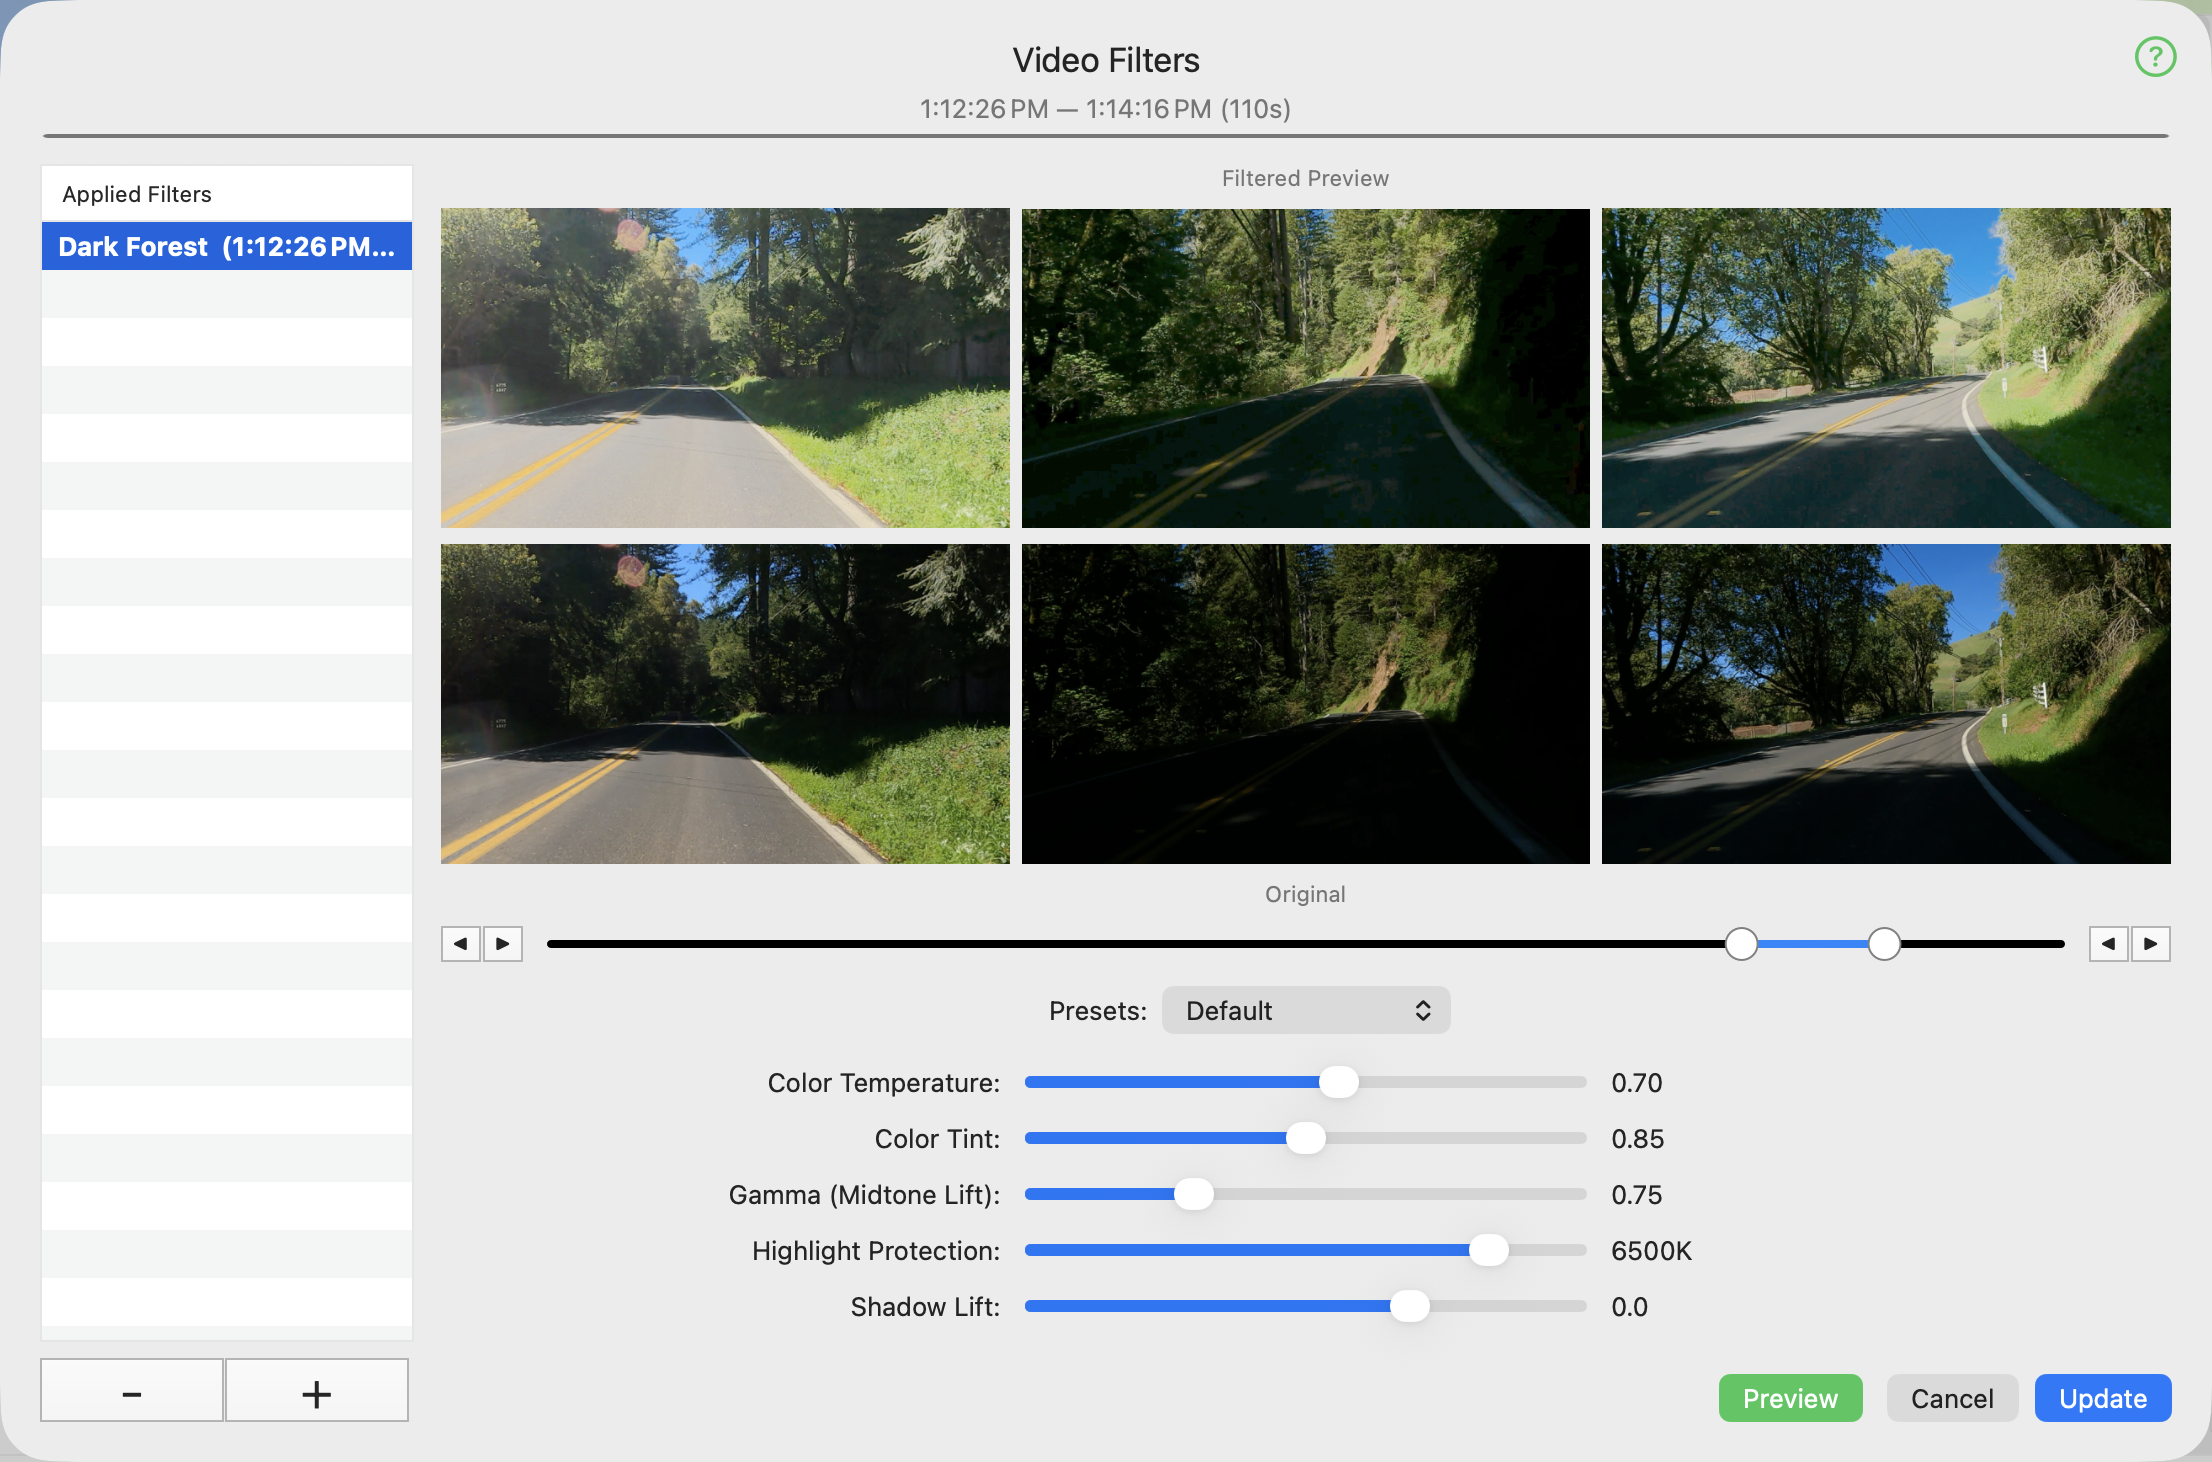
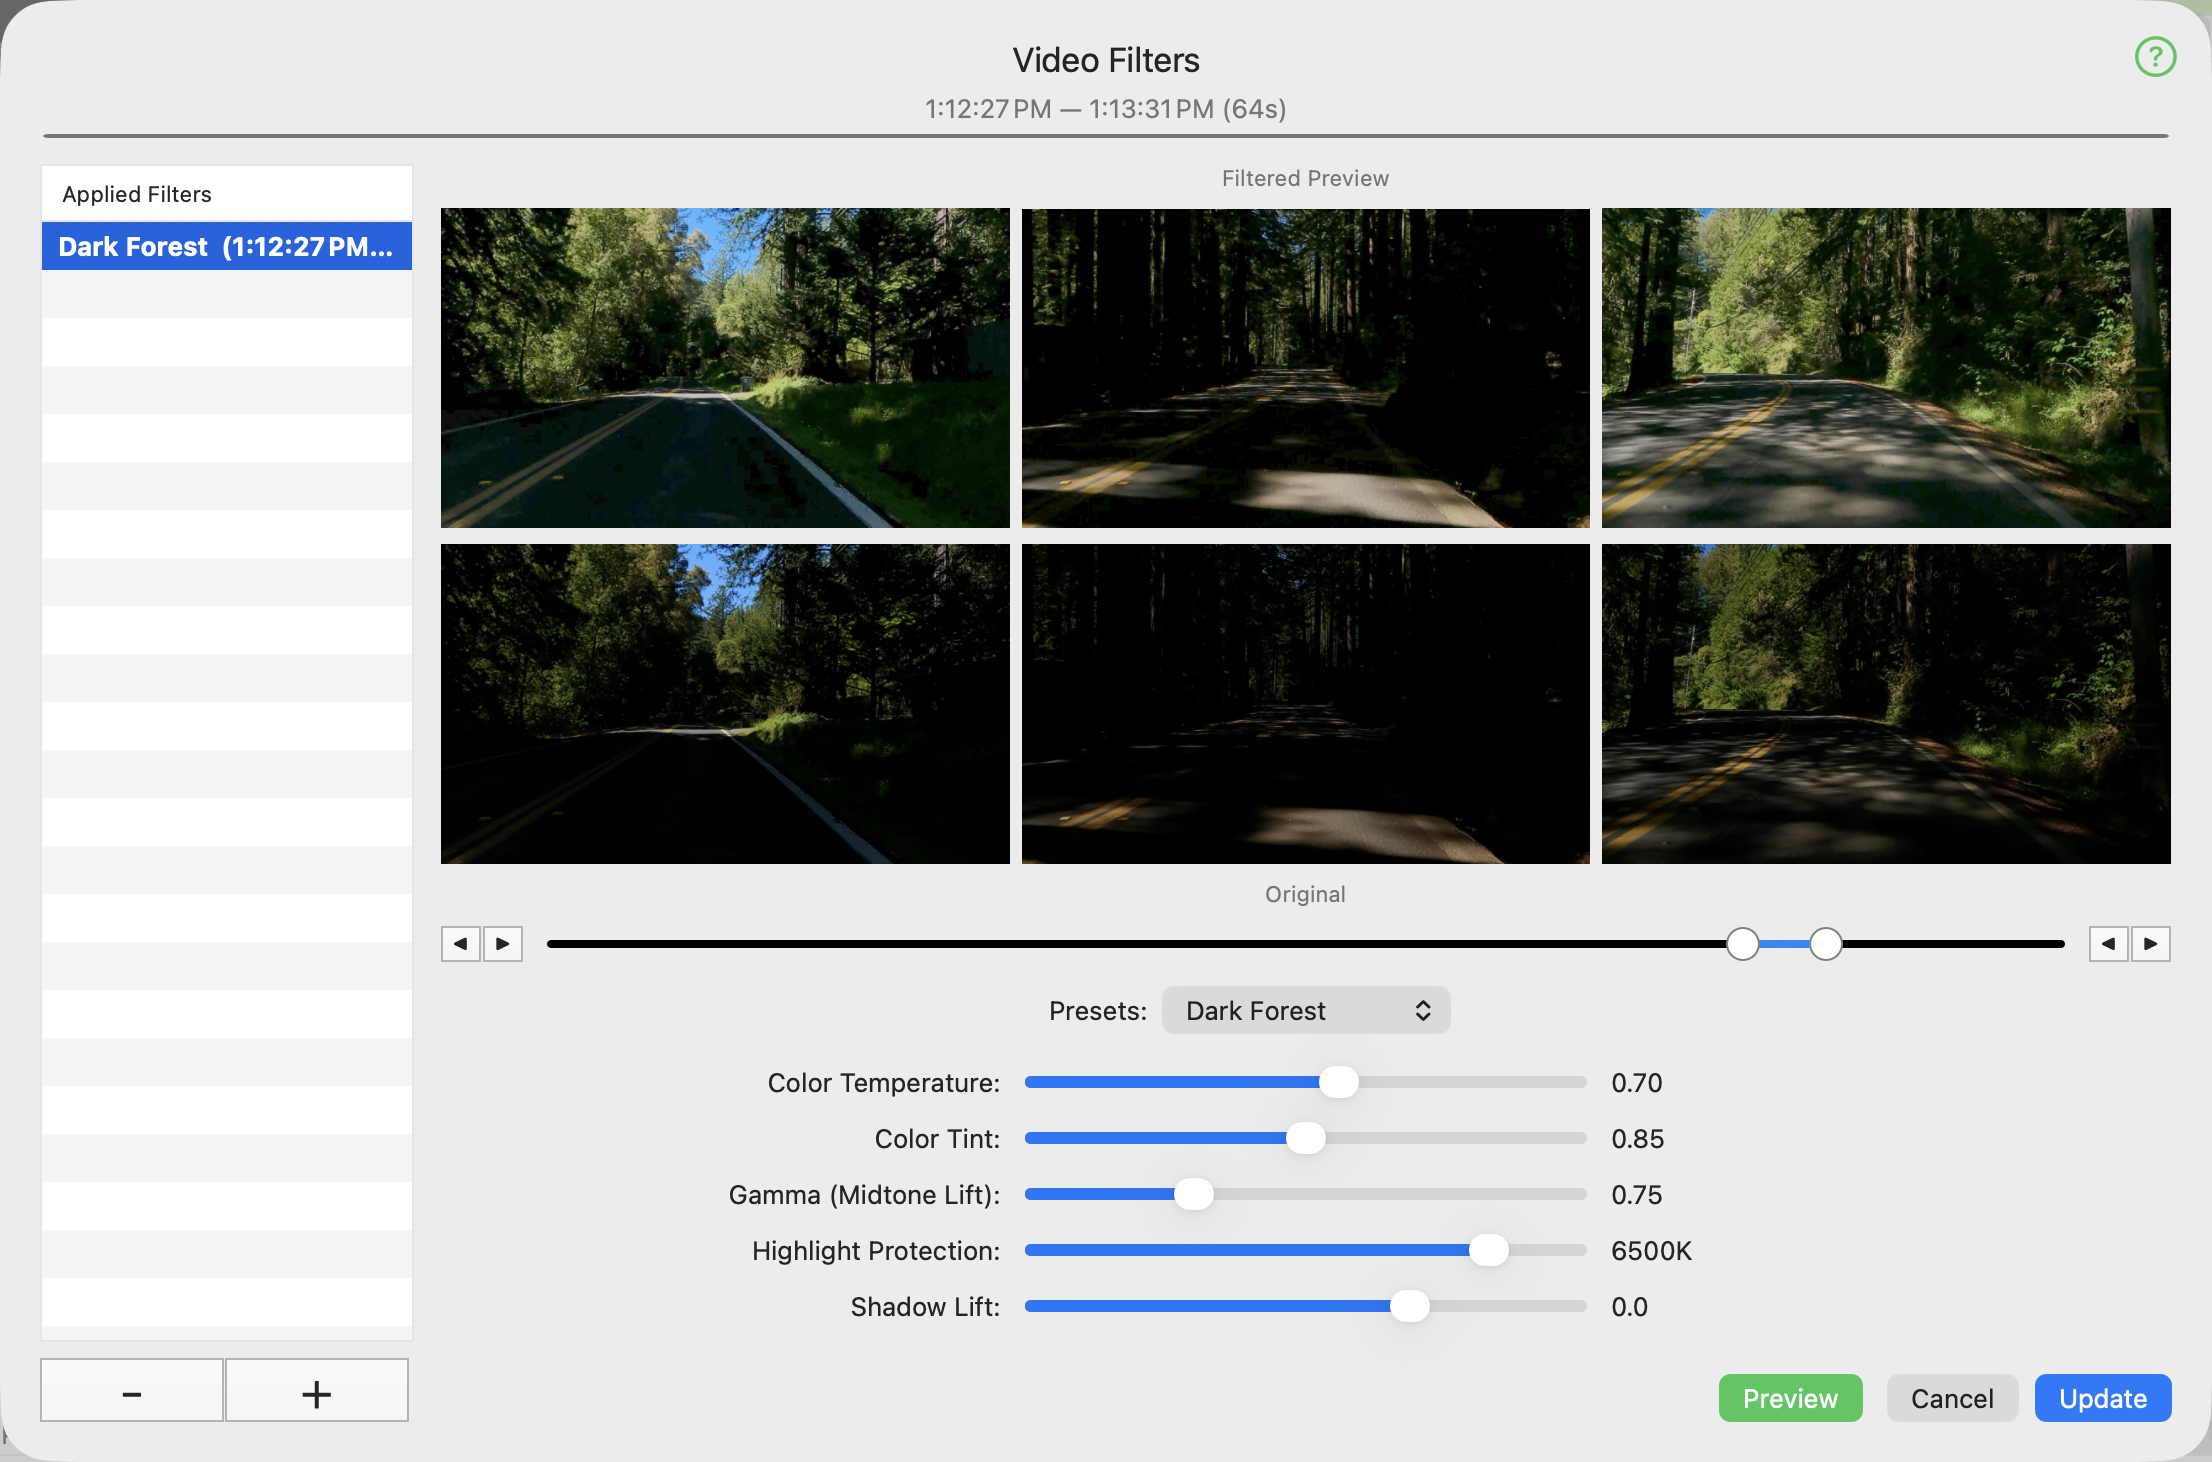
More GPX-V updates

diff --git a/GPX-V/main/index.html b/GPX-V/main/index.html
@@ -11,49 +11,49 @@
 <p>This window is where your project comes together. Import video and GPX files, synchronize them,  apply filters, add titles, adjust speeds, and export synchronized video and gpx files.</p>
 <p>All actions are available through menu items, or through the action buttons at the bottom of the window.</p>
 <p>Move your pointer over the images below to see feature explanations.</p>
-<div class="tutorial" id="tutorial" style="aspect-ratio: 1579 / 890; max-width: 1100px;">
+<div class="tutorial" id="tutorial" style="aspect-ratio: 1320 / 882; max-width: 1100px;">
 <img src="screenshot.png" alt="Tutorial screenshot">
-<div class="hotspot topmost" id="item-0" data-index="0" data-title="The Apple Menu" data-explanation="The Apple menu" style="left:1.2666%; top:0.0000%; width:1.5833%; height:2.6966%;" title="The Apple Menu"></div>
-<div class="hotspot" id="item-1" data-index="1" data-title="The GPX-V Menu" data-explanation="shows About GPX-V, Settings..., Services, Hide GPX-V, Hide Others" style="left:2.8499%; top:0.0000%; width:3.4009%; height:2.6966%;" title="The GPX-V Menu"></div>
-<div class="hotspot" id="item-2" data-index="2" data-title="The File Menu" data-explanation="shows New, Open…, Open Recent, Import GPX..., Import Video..." style="left:6.2509%; top:0.0000%; width:2.0938%; height:2.6966%;" title="The File Menu"></div>
-<div class="hotspot" id="item-3" data-index="3" data-title="The Edit Menu" data-explanation="shows Undo, Redo, Cut, Copy Selected Rows, Paste" style="left:8.3447%; top:0.0000%; width:2.2394%; height:2.6966%;" title="The Edit Menu"></div>
-<div class="hotspot" id="item-4" data-index="4" data-title="The Format Menu" data-explanation="shows Font, Text" style="left:10.5840%; top:0.0000%; width:3.4799%; height:2.6966%;" title="The Format Menu"></div>
-<div class="hotspot" id="item-5" data-index="5" data-title="The Tools Menu" data-explanation="shows GPX, Video, Video &amp; GPX" style="left:14.0640%; top:0.0000%; width:2.7893%; height:2.6966%;" title="The Tools Menu"></div>
-<div class="hotspot" id="item-6" data-index="6" data-title="The View Menu" data-explanation="shows Show Toolbar, Customize Toolbar…, Show Sidebar, Enter Full Screen" style="left:16.8533%; top:0.0000%; width:2.6068%; height:2.6966%;" title="The View Menu"></div>
-<div class="hotspot" id="item-7" data-index="7" data-title="The Window Menu" data-explanation="shows Minimize, Minimize All, Zoom, Zoom All, Fill" style="left:19.4600%; top:0.0000%; width:3.8253%; height:2.6966%;" title="The Window Menu"></div>
-<div class="hotspot" id="item-8" data-index="8" data-title="The Help Menu" data-explanation="shows GPX-V Help, GPX-V Quick Reference" style="left:23.2853%; top:0.0000%; width:2.5328%; height:2.6966%;" title="The Help Menu"></div>
-<div class="hotspot" id="item-9" data-index="9" data-title="The GPX-V Document Window" data-explanation="displays video, map, elevation chart, trackpoint table, and document contents." style="left:1.2666%; top:8.0899%; width:97.4668%; height:89.6629%;" title="The GPX-V Document Window"></div>
-<div class="hotspot" id="item-10" data-index="10" data-title="The Video Player" data-explanation="plays the imported and merged video files." style="left:1.5833%; top:8.6517%; width:46.1051%; height:45.7865%;" title="The Video Player"></div>
-<div class="hotspot" id="item-11" data-index="11" data-title="The Video Filter Display" data-explanation="shows the application of video filters to the video. Click a filter to edit." style="left:8.1064%; top:52.1910%; width:33.0589%; height:1.3483%;" title="The Video Filter Display"></div>
-<div class="hotspot" id="item-12" data-index="12" data-title="Selected Video Frames" data-explanation="shows 1, 2, or 3 frames depending on how long the video selection is. First, middle, and last frames of the selection." style="left:21.0893%; top:41.8539%; width:7.0931%; height:8.9888%;" title="Selected Video Frames"></div>
-<div class="hotspot" id="item-13" data-index="13" data-title="The Selection Range Slider" data-explanation="can change the selected video and trackpoints. Slide, click or shift-click to change the selection." style="left:8.1064%; top:41.8539%; width:33.0589%; height:2.2472%;" title="The Selection Range Slider"></div>
-<div class="hotspot" id="item-14" data-index="14" data-title="The Route Map" data-explanation="displays your route." style="left:48.3217%; top:8.6517%; width:50.0950%; height:33.2022%;" title="The Route Map"></div>
-<div class="hotspot" id="item-15" data-index="15" data-title="The Elevation Chart" data-explanation="shows how your route changes elevation. Colors signal the gradient of the slope. Click to select a point along the route. Shift-click to select a range from the current selected point." style="left:48.3217%; top:41.8539%; width:50.0950%; height:12.5843%;" title="The Elevation Chart"></div>
-<div class="hotspot" id="item-16" data-index="16" data-title="The Map Type Control" data-explanation="switches between traffic and satellite views." style="left:91.1336%; top:10.3371%; width:4.1165%; height:2.6966%;" title="The Map Type Control"></div>
-<div class="hotspot" id="item-17" data-index="17" data-title="The Speed Change Control" data-explanation="shows any changes in speed that have been applied to the route. Click a filter to edit." style="left:48.9550%; top:52.1910%; width:48.8284%; height:1.3483%;" title="The Speed Change Control"></div>
-<div class="hotspot" id="item-18" data-index="18" data-title="The Trackpoint Table" data-explanation="lists the GPS trackpoints in order. Click a row to select the point, shift-click to select a range. Arrow keys work too. " style="left:44.9652%; top:55.6742%; width:53.3882%; height:36.4607%;" title="The Trackpoint Table"></div>
-<div class="hotspot" id="item-19" data-index="19" data-title="The Information View" data-explanation="shows information about the history of changes to your document, an analysis of any potential problems, and the current status of your document." style="left:1.5833%; top:55.5618%; width:42.6852%; height:36.6854%;" title="The Information View"></div>
-<div class="hotspot" id="item-20" data-index="20" data-title="The Information Option Control" data-explanation="displays the three classes of available information. Click to select the one you want to see." style="left:1.5833%; top:55.5618%; width:42.6852%; height:2.6966%;" title="The Information Option Control"></div>
-<div class="hotspot nofill" id="item-21" data-index="21" data-title="The Action Buttons" data-explanation="perform available actions. Grouped by video, video and GPS, and GPS." style="left:1.5833%; top:92.2472%; width:96.8334%; height:4.9438%;" title="The Action Buttons"></div>
-<div class="hotspot" id="item-22" data-index="22" data-title="The Import Video Button" data-explanation="imports one or more .mp4 video files" style="left:20.0127%; top:92.6966%; width:2.1533%; height:4.0449%;" title="The Import Video Button"></div>
-<div class="hotspot" id="item-23" data-index="23" data-title="The Remove Audio Button" data-explanation="deletes audio tracks" style="left:22.7992%; top:92.6966%; width:2.1533%; height:4.0449%;" title="The Remove Audio Button"></div>
-<div class="hotspot" id="item-24" data-index="24" data-title="The Trim From Start Button" data-explanation="trims from the start of the video until the first selected trackpoint" style="left:25.5858%; top:92.6966%; width:2.1533%; height:4.0449%;" title="The Trim From Start Button"></div>
-<div class="hotspot" id="item-25" data-index="25" data-title="The Trim Until End Button" data-explanation="trims from the last selected trackpoint until the end of the video" style="left:28.3724%; top:92.6966%; width:2.1533%; height:4.0449%;" title="The Trim Until End Button"></div>
-<div class="hotspot" id="item-26" data-index="26" data-title="The Video Filter Button" data-explanation="opens an editor to apply image filters to the selected video to compensate for shadows, glare, etc." style="left:31.1590%; top:92.6966%; width:2.1533%; height:4.0449%;" title="The Video Filter Button"></div>
-<div class="hotspot" id="item-27" data-index="27" data-title="The Titles Button" data-explanation="opens an editor to add text to the video for a selected segment" style="left:33.9455%; top:92.6966%; width:2.1533%; height:4.0449%;" title="The Titles Button"></div>
-<div class="hotspot" id="item-28" data-index="28" data-title="The Share Video Button" data-explanation="shares a frame or clip" style="left:36.7321%; top:92.6966%; width:2.1533%; height:4.0449%;" title="The Share Video Button"></div>
-<div class="hotspot" id="item-29" data-index="29" data-title="The Export Video Button" data-explanation="exports a syncrhonized .mp4 file" style="left:39.5187%; top:92.6966%; width:2.1533%; height:4.0449%;" title="The Export Video Button"></div>
-<div class="hotspot" id="item-30" data-index="30" data-title="The Speed Adjustment Button" data-explanation="opens an editor to apply speed adjustments to video and GPX simultaneously." style="left:44.4585%; top:92.6966%; width:2.1533%; height:4.0449%;" title="The Speed Adjustment Button"></div>
-<div class="hotspot" id="item-31" data-index="31" data-title="The Segment Delete Button" data-explanation="deletes selected trackpoints and video" style="left:47.2451%; top:92.6966%; width:2.1533%; height:4.0449%;" title="The Segment Delete Button"></div>
-<div class="hotspot" id="item-32" data-index="32" data-title="The Directional Synch Menu" data-explanation="controls the direction of immediate synchronization of video and trackpoints" style="left:50.0317%; top:93.3708%; width:3.0082%; height:2.6966%;" title="The Directional Synch Menu"></div>
-<div class="hotspot" id="item-33" data-index="33" data-title="The Import GPX Button" data-explanation="imports a GPX file" style="left:55.8265%; top:92.6966%; width:2.1533%; height:4.0449%;" title="The Import GPX Button"></div>
-<div class="hotspot" id="item-34" data-index="34" data-title="The Add Trackpoint Button" data-explanation="adds a trackpoint at the  location on the map at the time specified in video" style="left:58.6130%; top:92.6966%; width:2.1533%; height:4.0449%;" title="The Add Trackpoint Button"></div>
-<div class="hotspot" id="item-35" data-index="35" data-title="The Delete Trackpoints Button" data-explanation="deletes the selected trackpoints" style="left:61.3996%; top:92.6966%; width:2.1533%; height:4.0449%;" title="The Delete Trackpoints Button"></div>
-<div class="hotspot" id="item-36" data-index="36" data-title="The Trackpoint Edit Button" data-explanation="Edits the selected trackpoints" style="left:64.1862%; top:92.6966%; width:2.1533%; height:4.0449%;" title="The Trackpoint Edit Button"></div>
-<div class="hotspot" id="item-37" data-index="37" data-title="The Route Interpolation Button" data-explanation="interpolates a route between two selected points" style="left:66.9728%; top:92.6966%; width:2.1533%; height:4.0449%;" title="The Route Interpolation Button"></div>
-<div class="hotspot" id="item-38" data-index="38" data-title="The Elevation Button" data-explanation="Adjusts elevations and gradients" style="left:69.7593%; top:92.6966%; width:2.1533%; height:4.0449%;" title="The Elevation Button"></div>
-<div class="hotspot" id="item-39" data-index="39" data-title="The Export GPX Button" data-explanation="exports a synchronized GPX file" style="left:72.5459%; top:92.6966%; width:2.1533%; height:4.0449%;" title="The Export GPX Button"></div>
-<div class="hotspot" id="item-40" data-index="40" data-title="The Infer Checkbox" data-explanation="when checked, inferred trackpoints are displayed" style="left:75.3325%; top:93.3708%; width:4.6548%; height:2.6966%;" title="The Infer Checkbox"></div>
+<div class="hotspot topmost" id="item-0" data-index="0" data-title="The Apple Menu" data-explanation="The Apple menu" style="left:1.5152%; top:0.0000%; width:1.8939%; height:2.7211%;" title="The Apple Menu"></div>
+<div class="hotspot" id="item-1" data-index="1" data-title="The GPX-V Menu" data-explanation="shows About GPX-V, Settings..., Services, Hide GPX-V, Hide Others" style="left:3.4091%; top:0.0000%; width:4.0683%; height:2.7211%;" title="The GPX-V Menu"></div>
+<div class="hotspot" id="item-2" data-index="2" data-title="The File Menu" data-explanation="shows New, Open…, Open Recent, Import GPX..., Import Video..." style="left:7.4773%; top:0.0000%; width:2.5047%; height:2.7211%;" title="The File Menu"></div>
+<div class="hotspot" id="item-3" data-index="3" data-title="The Edit Menu" data-explanation="shows Undo, Redo, Cut, Copy Selected Rows, Paste" style="left:9.9820%; top:0.0000%; width:2.6787%; height:2.7211%;" title="The Edit Menu"></div>
+<div class="hotspot" id="item-4" data-index="4" data-title="The Format Menu" data-explanation="shows Font, Text" style="left:12.6607%; top:0.0000%; width:4.1627%; height:2.7211%;" title="The Format Menu"></div>
+<div class="hotspot" id="item-5" data-index="5" data-title="The Tools Menu" data-explanation="shows GPX, Video, Video &amp; GPX" style="left:16.8235%; top:0.0000%; width:3.3366%; height:2.7211%;" title="The Tools Menu"></div>
+<div class="hotspot" id="item-6" data-index="6" data-title="The View Menu" data-explanation="shows Show Tab Bar, Show All Tabs, Show Toolbar, Customize Toolbar…, Show Sidebar" style="left:20.1601%; top:0.0000%; width:3.1183%; height:2.7211%;" title="The View Menu"></div>
+<div class="hotspot" id="item-7" data-index="7" data-title="The Window Menu" data-explanation="shows Minimize, Minimize All, Zoom, Zoom All, Fill" style="left:23.2783%; top:0.0000%; width:4.5758%; height:2.7211%;" title="The Window Menu"></div>
+<div class="hotspot" id="item-8" data-index="8" data-title="The Help Menu" data-explanation="shows GPX-V Help, GPX-V Quick Reference" style="left:27.8542%; top:0.0000%; width:3.0298%; height:2.7211%;" title="The Help Menu"></div>
+<div class="hotspot" id="item-9" data-index="9" data-title="The GPX-V Document Window" data-explanation="displays video, map, elevation chart, trackpoint table, and document contents." style="left:1.5152%; top:8.1633%; width:96.9697%; height:89.5692%;" title="The GPX-V Document Window"></div>
+<div class="hotspot" id="item-10" data-index="10" data-title="The Video Player" data-explanation="plays the imported and merged video files." style="left:1.8939%; top:8.7302%; width:43.0303%; height:49.4331%;" title="The Video Player"></div>
+<div class="hotspot" id="item-11" data-index="11" data-title="The Video Filter Display" data-explanation="shows the application of video filters to the video. Click a filter to edit." style="left:1.9697%; top:55.8957%; width:42.8788%; height:1.3605%;" title="The Video Filter Display"></div>
+<div class="hotspot" id="item-12" data-index="12" data-title="Selected Video Frames" data-explanation="shows 1, 2, or 3 frames depending on how long the video selection is. First, middle, and last frames of the selection." style="left:10.0758%; top:45.4649%; width:26.6667%; height:9.0703%;" title="Selected Video Frames"></div>
+<div class="hotspot" id="item-13" data-index="13" data-title="The Selection Range Slider" data-explanation="can change the selected video and trackpoints. Slide, click or shift-click to change the selection." style="left:1.9697%; top:45.4649%; width:42.8788%; height:2.2676%;" title="The Selection Range Slider"></div>
+<div class="hotspot" id="item-14" data-index="14" data-title="The Route Map" data-explanation="displays your route." style="left:45.6818%; top:8.7302%; width:52.4242%; height:36.7347%;" title="The Route Map"></div>
+<div class="hotspot" id="item-15" data-index="15" data-title="The Elevation Chart" data-explanation="shows how your route changes elevation. Colors signal the gradient of the slope. Click to select a point along the route. Shift-click to select a range from the current selected point." style="left:45.6818%; top:45.4649%; width:52.4242%; height:12.6984%;" title="The Elevation Chart"></div>
+<div class="hotspot" id="item-16" data-index="16" data-title="The Map Type Control" data-explanation="switches between traffic and satellite views." style="left:89.3939%; top:10.4308%; width:4.9242%; height:2.7211%;" title="The Map Type Control"></div>
+<div class="hotspot" id="item-17" data-index="17" data-title="The Speed Change Control" data-explanation="shows any changes in speed that have been applied to the route. Click a filter to edit." style="left:46.4394%; top:55.8957%; width:50.9091%; height:1.3605%;" title="The Speed Change Control"></div>
+<div class="hotspot" id="item-18" data-index="18" data-title="The Trackpoint Table" data-explanation="lists the GPS trackpoints in order. Click a row to select the point, shift-click to select a range. Arrow keys work too. " style="left:45.8333%; top:59.4104%; width:52.1970%; height:32.6531%;" title="The Trackpoint Table"></div>
+<div class="hotspot" id="item-19" data-index="19" data-title="The Information View" data-explanation="shows information about the history of changes to your document, an analysis of any potential problems, and the current status of your document." style="left:1.8939%; top:59.2971%; width:43.1061%; height:32.8798%;" title="The Information View"></div>
+<div class="hotspot" id="item-20" data-index="20" data-title="The Information Option Control" data-explanation="displays the three classes of available information. Click to select the one you want to see." style="left:1.8939%; top:59.2971%; width:43.1061%; height:2.7211%;" title="The Information Option Control"></div>
+<div class="hotspot nofill" id="item-21" data-index="21" data-title="The Action Buttons" data-explanation="perform available actions. Grouped by video, video and GPS, and GPS." style="left:1.8939%; top:92.1769%; width:96.2121%; height:4.9887%;" title="The Action Buttons"></div>
+<div class="hotspot" id="item-22" data-index="22" data-title="The Import Video Button" data-explanation="imports one or more .mp4 video files" style="left:14.1288%; top:92.6304%; width:2.5758%; height:4.0816%;" title="The Import Video Button"></div>
+<div class="hotspot" id="item-23" data-index="23" data-title="The Remove Audio Button" data-explanation="deletes audio tracks" style="left:17.4621%; top:92.6304%; width:2.5758%; height:4.0816%;" title="The Remove Audio Button"></div>
+<div class="hotspot" id="item-24" data-index="24" data-title="The Trim From Start Button" data-explanation="trims from the start of the video until the first selected trackpoint" style="left:20.7955%; top:92.6304%; width:2.5758%; height:4.0816%;" title="The Trim From Start Button"></div>
+<div class="hotspot" id="item-25" data-index="25" data-title="The Trim Until End Button" data-explanation="trims from the last selected trackpoint until the end of the video" style="left:24.1288%; top:92.6304%; width:2.5758%; height:4.0816%;" title="The Trim Until End Button"></div>
+<div class="hotspot" id="item-26" data-index="26" data-title="The Video Filter Button" data-explanation="opens an editor to apply image filters to the selected video to compensate for shadows, glare, etc." style="left:27.4621%; top:92.6304%; width:2.5758%; height:4.0816%;" title="The Video Filter Button"></div>
+<div class="hotspot" id="item-27" data-index="27" data-title="The Titles Button" data-explanation="opens an editor to add text to the video for a selected segment" style="left:30.7955%; top:92.6304%; width:2.5758%; height:4.0816%;" title="The Titles Button"></div>
+<div class="hotspot" id="item-28" data-index="28" data-title="The Share Video Button" data-explanation="shares a frame or clip" style="left:34.1288%; top:92.6304%; width:2.5758%; height:4.0816%;" title="The Share Video Button"></div>
+<div class="hotspot" id="item-29" data-index="29" data-title="The Export Video Button" data-explanation="exports a syncrhonized .mp4 file" style="left:37.4621%; top:92.6304%; width:2.5758%; height:4.0816%;" title="The Export Video Button"></div>
+<div class="hotspot" id="item-30" data-index="30" data-title="The Speed Adjustment Button" data-explanation="opens an editor to apply speed adjustments to video and GPX simultaneously." style="left:43.3712%; top:92.6304%; width:2.5758%; height:4.0816%;" title="The Speed Adjustment Button"></div>
+<div class="hotspot" id="item-31" data-index="31" data-title="The Segment Delete Button" data-explanation="deletes selected trackpoints and video" style="left:46.7045%; top:92.6304%; width:2.5758%; height:4.0816%;" title="The Segment Delete Button"></div>
+<div class="hotspot" id="item-32" data-index="32" data-title="The Directional Synch Menu" data-explanation="controls the direction of immediate synchronization of video and trackpoints" style="left:50.0379%; top:93.3107%; width:3.5985%; height:2.7211%;" title="The Directional Synch Menu"></div>
+<div class="hotspot" id="item-33" data-index="33" data-title="The Import GPX Button" data-explanation="imports a GPX file" style="left:56.9697%; top:92.6304%; width:2.5758%; height:4.0816%;" title="The Import GPX Button"></div>
+<div class="hotspot" id="item-34" data-index="34" data-title="The Add Trackpoint Button" data-explanation="adds a trackpoint at the  location on the map at the time specified in video" style="left:60.3030%; top:92.6304%; width:2.5758%; height:4.0816%;" title="The Add Trackpoint Button"></div>
+<div class="hotspot" id="item-35" data-index="35" data-title="The Delete Trackpoints Button" data-explanation="deletes the selected trackpoints" style="left:63.6364%; top:92.6304%; width:2.5758%; height:4.0816%;" title="The Delete Trackpoints Button"></div>
+<div class="hotspot" id="item-36" data-index="36" data-title="The Trackpoint Edit Button" data-explanation="Edits the selected trackpoints" style="left:66.9697%; top:92.6304%; width:2.5758%; height:4.0816%;" title="The Trackpoint Edit Button"></div>
+<div class="hotspot" id="item-37" data-index="37" data-title="The Route Interpolation Button" data-explanation="interpolates a route between two selected points" style="left:70.3030%; top:92.6304%; width:2.5758%; height:4.0816%;" title="The Route Interpolation Button"></div>
+<div class="hotspot" id="item-38" data-index="38" data-title="The Elevation Button" data-explanation="Adjusts elevations and gradients" style="left:73.6364%; top:92.6304%; width:2.5758%; height:4.0816%;" title="The Elevation Button"></div>
+<div class="hotspot" id="item-39" data-index="39" data-title="The Export GPX Button" data-explanation="exports a synchronized GPX file" style="left:76.9697%; top:92.6304%; width:2.5758%; height:4.0816%;" title="The Export GPX Button"></div>
+<div class="hotspot" id="item-40" data-index="40" data-title="The Infer Checkbox" data-explanation="when checked, inferred trackpoints are displayed" style="left:80.3030%; top:93.3107%; width:5.5682%; height:2.7211%;" title="The Infer Checkbox"></div>
 </div>
 <div class="caption"><span class="title" id="capTitle"></span> <span id="capExplanation"></span></div>
 <script>

diff --git a/GPX-V/videofilter/index.html b/GPX-V/videofilter/index.html
@@ -6,15 +6,15 @@
 <link rel="stylesheet" href="../tutorial.css">
 </head>
 <body>
-<a class="home" href="../index.html" title="Home"><img src="../home-icon.png" alt="Home"></a>
+<a class="home" href="../index.html" title="GPX-V Quick Reference Home"><img src="../home-icon.png" alt=""> GPX-V Quick Reference Home</a>
 <h1>The Video Filter Editor</h1>
 <p>This editor manages the application of video filters to selected video time segments.</p>
 <p>Use the controls to set the precise time interval, and the sliders to set the effect you wish to apply.</p>
 <p>The Preview button shows you the filter in action, before you apply or update it.</p>
-<div class="tutorial" id="tutorial" style="aspect-ratio: 1106 / 731; max-width: 1106px;">
+<div class="tutorial" id="tutorial" style="aspect-ratio: 1106 / 731; max-width: 1100px;">
 <img src="screenshot.png" alt="Tutorial screenshot">
 <div class="hotspot topmost" id="item-0" data-index="0" data-title="The Video Filter Editor" data-explanation="defines and applies video filters to segments of the video." style="left:0.0000%; top:0.0000%; width:100.0000%; height:100.0000%;" title="The Video Filter Editor"></div>
-<div class="hotspot" id="item-1" data-index="1" data-title="The Range Label" data-explanation="shows the start, finish and length of the video segment to which the filter will be applied." style="left:41.2297%; top:6.2927%; width:17.5859%; height:2.1888%;" title="The Range Label"></div>
+<div class="hotspot" id="item-1" data-index="1" data-title="The Range Label" data-explanation="shows the start, finish and length of the video segment to which the filter will be applied." style="left:41.4557%; top:6.2927%; width:17.1338%; height:2.1888%;" title="The Range Label"></div>
 <div class="hotspot" id="item-2" data-index="2" data-title="The Table View" data-explanation="lists the filters you have applied to the video." style="left:1.8987%; top:15.1847%; width:16.7269%; height:76.4706%;" title="The Table View"></div>
 <div class="hotspot" id="item-3" data-index="3" data-title="The Delete Button" data-explanation="deletes the selected filter." style="left:1.8083%; top:92.7497%; width:8.3635%; height:4.6512%;" title="The Delete Button"></div>
 <div class="hotspot" id="item-4" data-index="4" data-title="The Add Button" data-explanation="adds a new filter to the list." style="left:10.1718%; top:92.7497%; width:8.3635%; height:4.6512%;" title="The Add Button"></div>

diff --git a/GPX-V/items-index.html b/GPX-V/items-index.html
@@ -150,7 +150,7 @@
 <li class="entry" id="entry-library-5"><a class="entry-link" href="library/index.html#item-5"><span class="entry-title">Tools Menu</span> <span class="entry-explanation">shows GPX, Video, Video &amp; GPX</span></a></li>
 <li class="entry" id="entry-main-5"><a class="entry-link" href="main/index.html#item-5"><span class="entry-title">Tools Menu</span> <span class="entry-explanation">shows GPX, Video, Video &amp; GPX</span></a></li>
 <li class="entry" id="entry-library-6"><a class="entry-link" href="library/index.html#item-6"><span class="entry-title">View Menu</span> <span class="entry-explanation">shows Show Tab Bar, Show All Tabs, Show Toolbar, Customize Toolbar…, Show Sidebar</span></a></li>
-<li class="entry" id="entry-main-6"><a class="entry-link" href="main/index.html#item-6"><span class="entry-title">View Menu</span> <span class="entry-explanation">shows Show Toolbar, Customize Toolbar…, Show Sidebar, Enter Full Screen</span></a></li>
+<li class="entry" id="entry-main-6"><a class="entry-link" href="main/index.html#item-6"><span class="entry-title">View Menu</span> <span class="entry-explanation">shows Show Tab Bar, Show All Tabs, Show Toolbar, Customize Toolbar…, Show Sidebar</span></a></li>
 <li class="entry" id="entry-library-7"><a class="entry-link" href="library/index.html#item-7"><span class="entry-title">Window Menu</span> <span class="entry-explanation">shows Minimize, Minimize All, Zoom, Zoom All, Fill</span></a></li>
 <li class="entry" id="entry-main-7"><a class="entry-link" href="main/index.html#item-7"><span class="entry-title">Window Menu</span> <span class="entry-explanation">shows Minimize, Minimize All, Zoom, Zoom All, Fill</span></a></li>
 </ul>

diff --git a/GPX-V/title/index.html b/GPX-V/title/index.html
@@ -14,7 +14,7 @@
 <div class="tutorial" id="tutorial" style="aspect-ratio: 1100 / 522; max-width: 1100px;">
 <img src="screenshot.png" alt="Tutorial screenshot">
 <div class="hotspot topmost" id="item-0" data-index="0" data-title="The Title Editor" data-explanation="inserts and formats text into segments of the video." style="left:0.0000%; top:0.0000%; width:100.0000%; height:100.0000%;" title="The Title Editor"></div>
-<div class="hotspot" id="item-1" data-index="1" data-title="The Range Label" data-explanation="shows the start, finish and length of the video segment to which the title will be applied." style="left:40.3636%; top:6.8966%; width:19.3182%; height:3.0651%;" title="The Range Label"></div>
+<div class="hotspot" id="item-1" data-index="1" data-title="The Range Label" data-explanation="shows the start, finish and length of the video segment to which the title will be applied." style="left:41.0909%; top:6.8966%; width:17.8182%; height:3.0651%;" title="The Range Label"></div>
 <div class="hotspot" id="item-2" data-index="2" data-title="The Table View" data-explanation="lists the titles you have applied to the video." style="left:1.0000%; top:18.3908%; width:16.8182%; height:68.7739%;" title="The Table View"></div>
 <div class="hotspot" id="item-3" data-index="3" data-title="The Delete Button" data-explanation="deletes the selected title." style="left:0.9091%; top:89.8467%; width:8.4091%; height:6.5134%;" title="The Delete Button"></div>
 <div class="hotspot" id="item-4" data-index="4" data-title="The Add Button" data-explanation="adds a new title to the list." style="left:9.5000%; top:89.8467%; width:8.4091%; height:6.5134%;" title="The Add Button"></div>